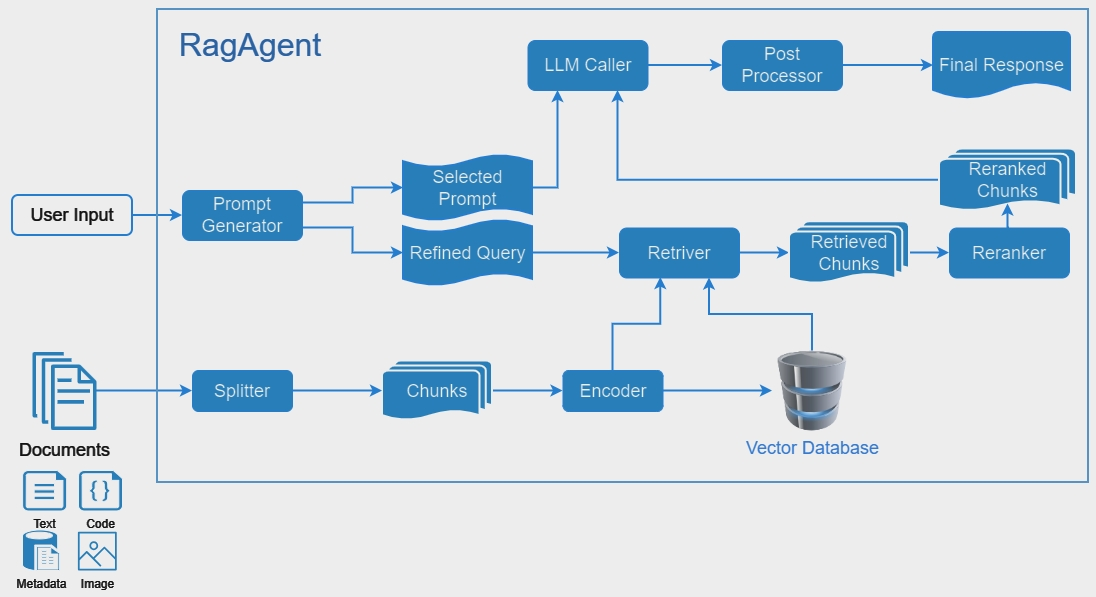
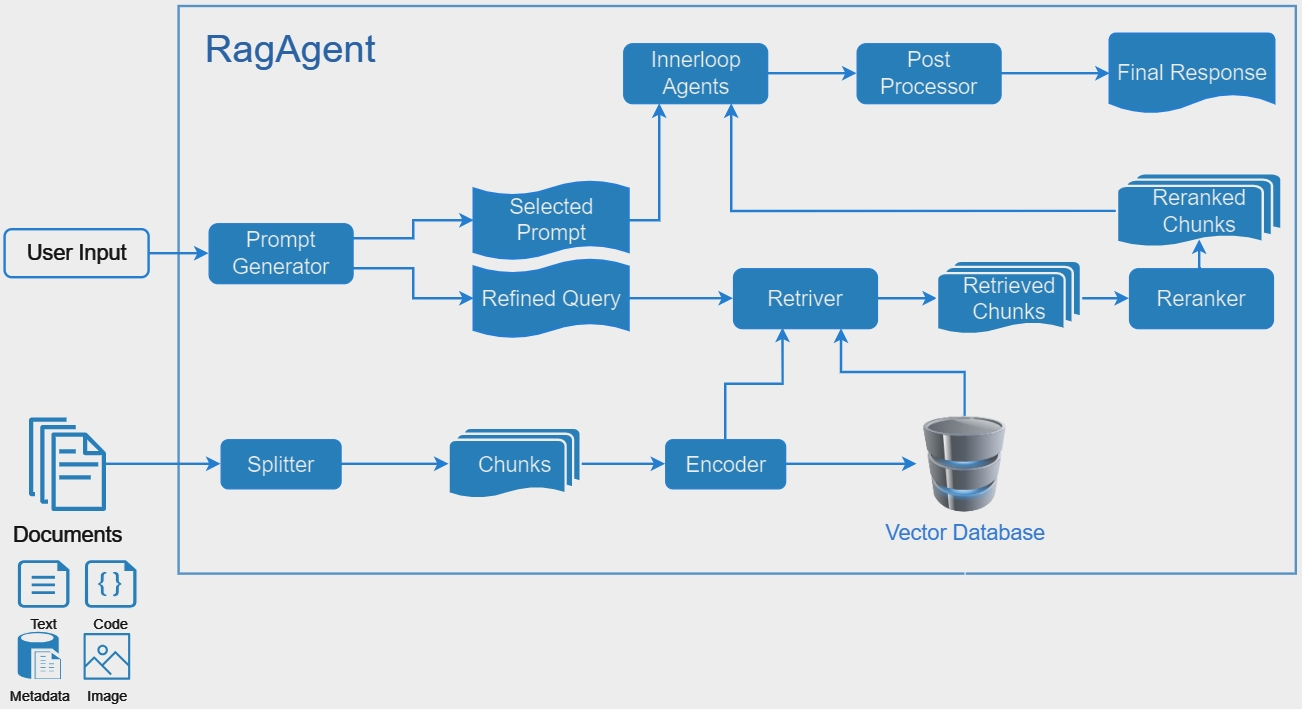
Update readme

diff --git a/autogen/agentchat/contrib/rag/README.md b/autogen/agentchat/contrib/rag/README.md
@@ -7,7 +7,7 @@ Upon receipt of a message, the agent employs RAG to generate a reply. It retriev
 We also support enabling the RAG capability for any conversable agent with `Ragability`.
 
 ## Overall Design
-The overall architecture of the agent is outlined below:
+The overall architecture of the RagAgent is outlined below:
 
 ![architecture](images/autogen-rag-overall.png)
 
@@ -15,7 +15,10 @@ It consists of two main workflows: raw document processing and user input respon
 
 Given raw documents encompassing text, code, metadata (such as tables or databases), and even images, we utilize a `Splitter` to segment the documents into `Chunks`. These Chunks are then encoded using an `Encoder` to compute embeddings, which are stored as `Documents` within a vector database. This process enables the creation of a comprehensive knowledge base for subsequent retrieval operations.
 
-Once the knowledge base is established, we can enhance our responses to user input. Upon receiving a message, the `Prompt Generator` categorizes it into different types, such as `qa`, `code`, or `unknown`, and selects an appropriate prompt. The message is also refined into multiple query strings for later retrieval. The `Retriever` searches the vector database for relevant documents based on these refined queries, yielding `Retrieved Chunks`. These Chunks are then passed to the `Reranker`, where relevant documents are reordered into `Reranked Chunks` based on relevance. A final prompt is generated using the `Selected Prompt` and `Reranked Chunks`, which is then sent to the backend Language Model via the `LLM Caller`. Post-processing, handled by the `Post Processor`, results in the generation of the `Final Response`.
+Once the knowledge base is established, we can enhance our responses to user input. Upon receiving a message, the `Prompt Generator` categorizes it into different types, such as `qa`, `code`, or `unknown`, and selects an appropriate prompt. The message is also refined into multiple query strings for later retrieval. The `Retriever` searches the vector database for relevant documents based on these refined queries, yielding `Retrieved Chunks`. These Chunks are then passed to the `Reranker`, where relevant documents are reordered into `Reranked Chunks` based on relevance. A final prompt is generated using the `Selected Prompt` and `Reranked Chunks`, which is then sent to the backend Language Model via the `Innerloop Agents`. Post-processing, handled by the `Post Processor`, results in the generation of the `Final Response`.
+
+## Sequence Diagram
+<div align="center"><img src=https://raw.githubusercontent.com/thinkall/imgbed/master/img/autogen-rag-sequence-uml.png></img></div>
 
 ## RoadMap
 [Roadmap for RAG #1657](https://github.com/microsoft/autogen/issues/1657)
@@ -30,9 +33,6 @@ Once the knowledge base is established, we can enhance our responses to user inp
 - [ ] lancedb as vectordb
 - [ ] benchmark
 - [ ] async
-
-## Class Diagram
-<div align="center"><img src=https://raw.githubusercontent.com/thinkall/imgbed/master/img/autogen-class-uml.png></img></div>
 
 ## Demo Code
 
